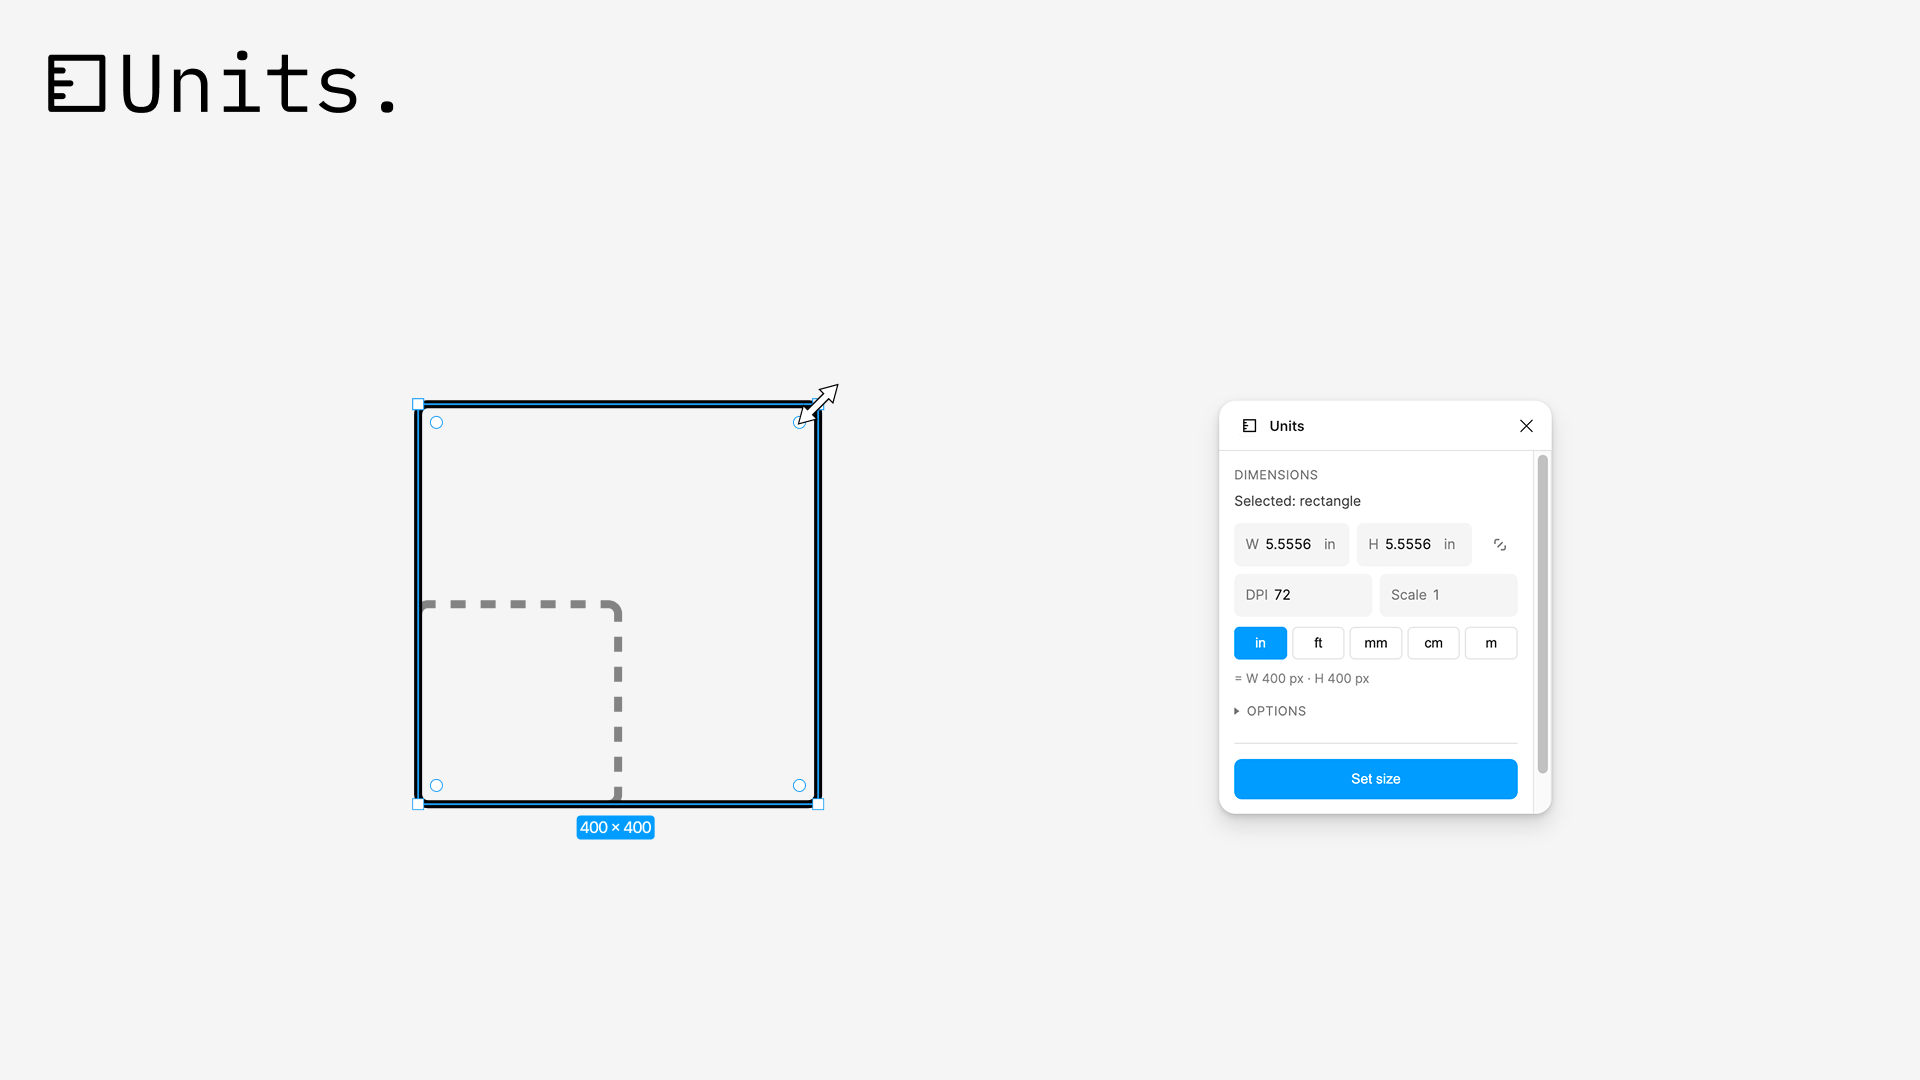
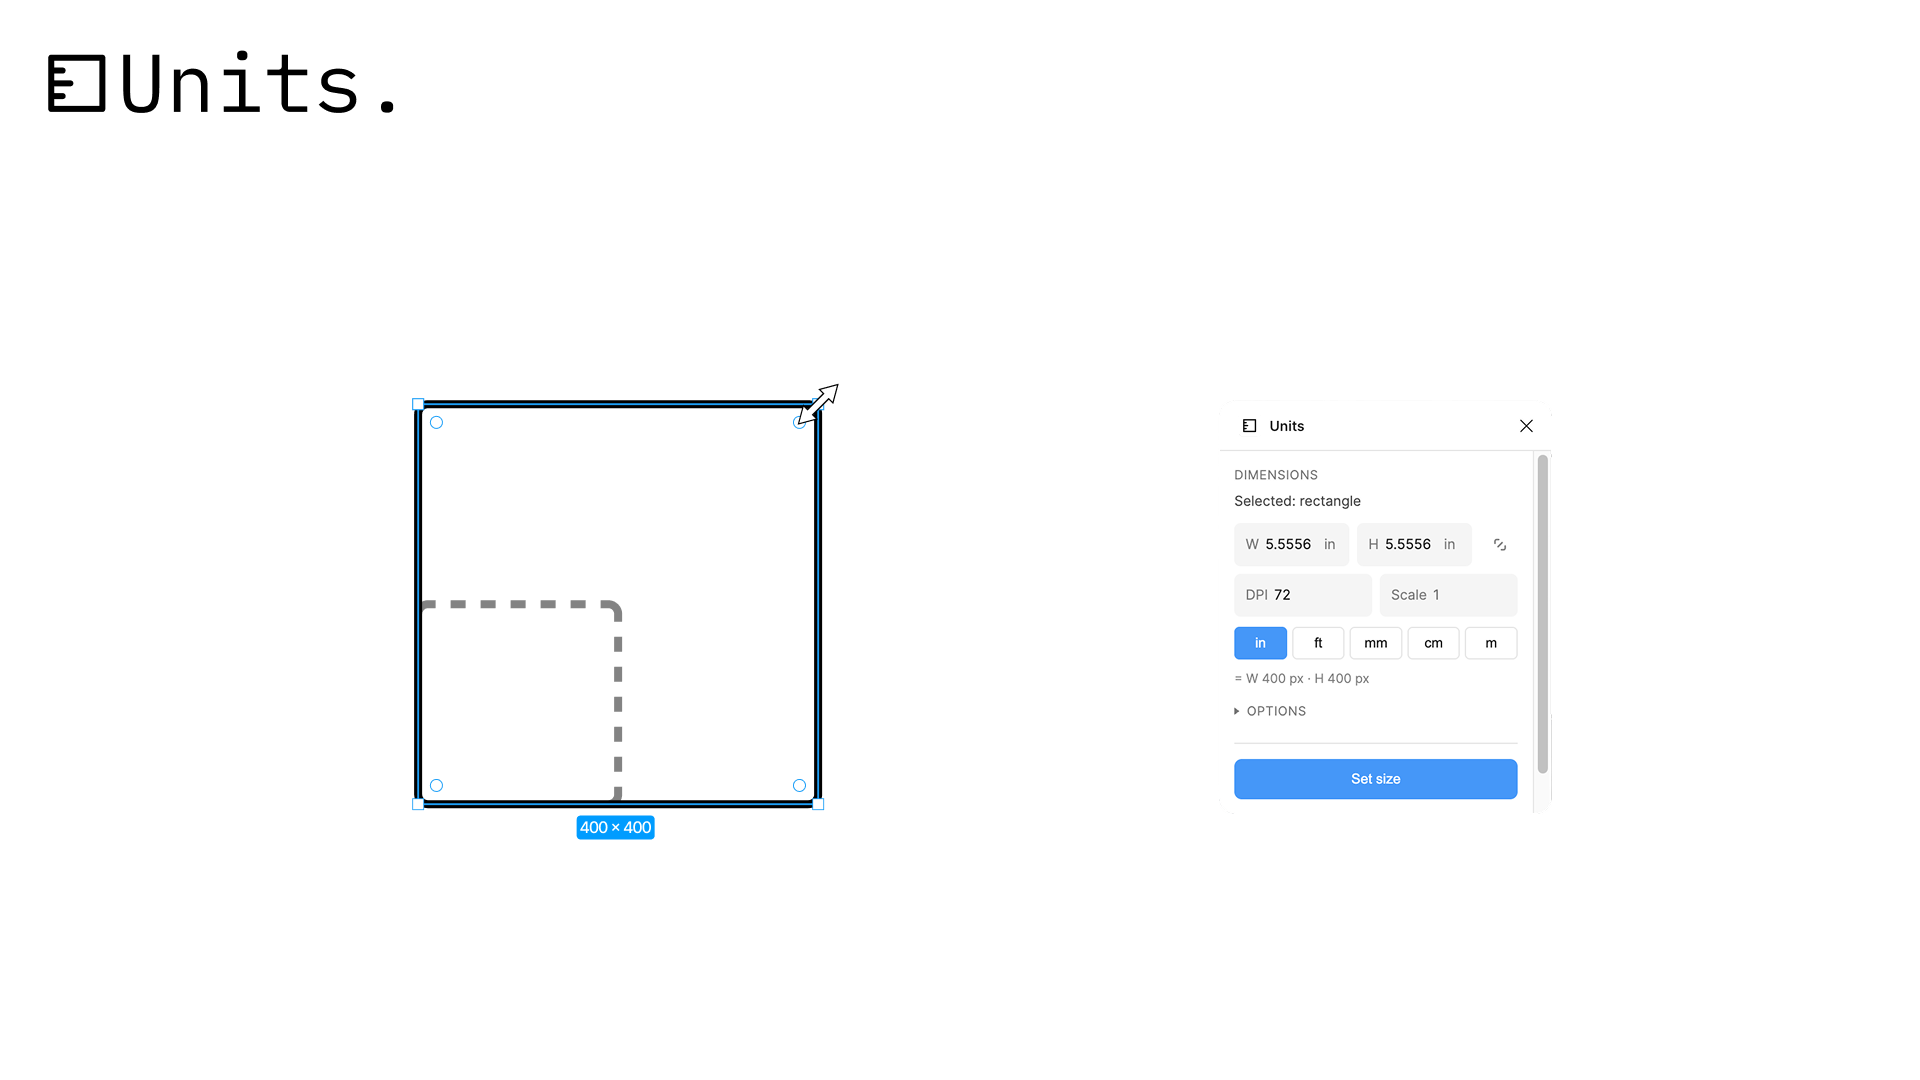
Jons-MacBook-M2-Pro.local 2026-7-13:7:24:30

Changed region(s): [[0.625, 0.7028, 0.8125, 0.7639], [0.625, 0.5806, 0.6875, 0.6111]]

diff --git a/_projects/dims-and-units.md b/_projects/dims-and-units.md
@@ -24,13 +24,13 @@ A CAD-style dimension annotation tool. Drop a well-formatted callout — line, a
 
 Every dimension is built from standard Figma vectors and frames. No custom rendering. Each one is an auto-layout frame, so Figma stretches it in both axes as you drag and the label recomputes on its own. Eight variants — horizontal and vertical, standard and inline label, plus flip — from a grid of one-click drop buttons. Adjustable arrow styles, stroke, font, and witness-line spacing.
 
-![[Dims_Logo-Name.svg]]![[Dims_Thumbnail.png]]
+![[Dims_Thumbnail.png]]
 
 ### Units
 
 Draw a box or line, type a width and/or height in a real-world unit at a chosen DPI and scale, and Units converts to pixels and resizes the node. Set both dimensions or just one. Lock the aspect ratio and scale the other axis proportionally. Works on any resizable node — shapes, groups, frames — and reads a line's width as its geometric length.
 
-![[Units_Logo-Name.svg]]![[Units_Thumbnail.png]]
+![[Units_Thumbnail.png]]
 
 Both handle in, ft, mm, cm, and m, with a configurable DPI and drawing scale (enter `1`, `0.25`, or a fraction like `1/4`).
 